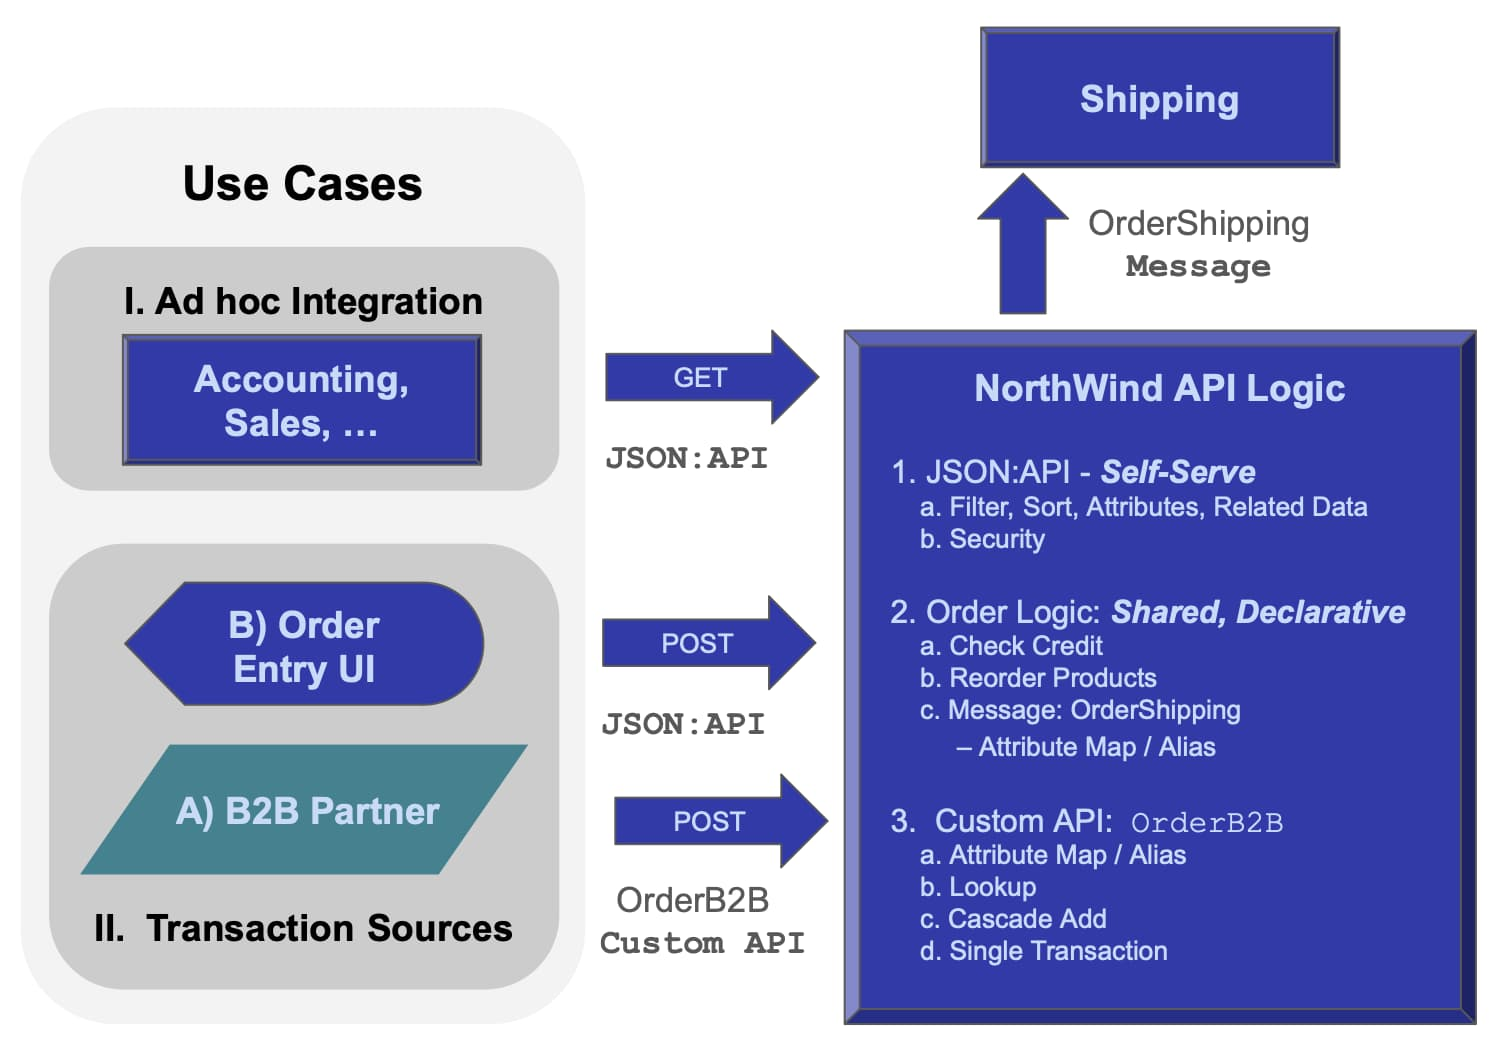
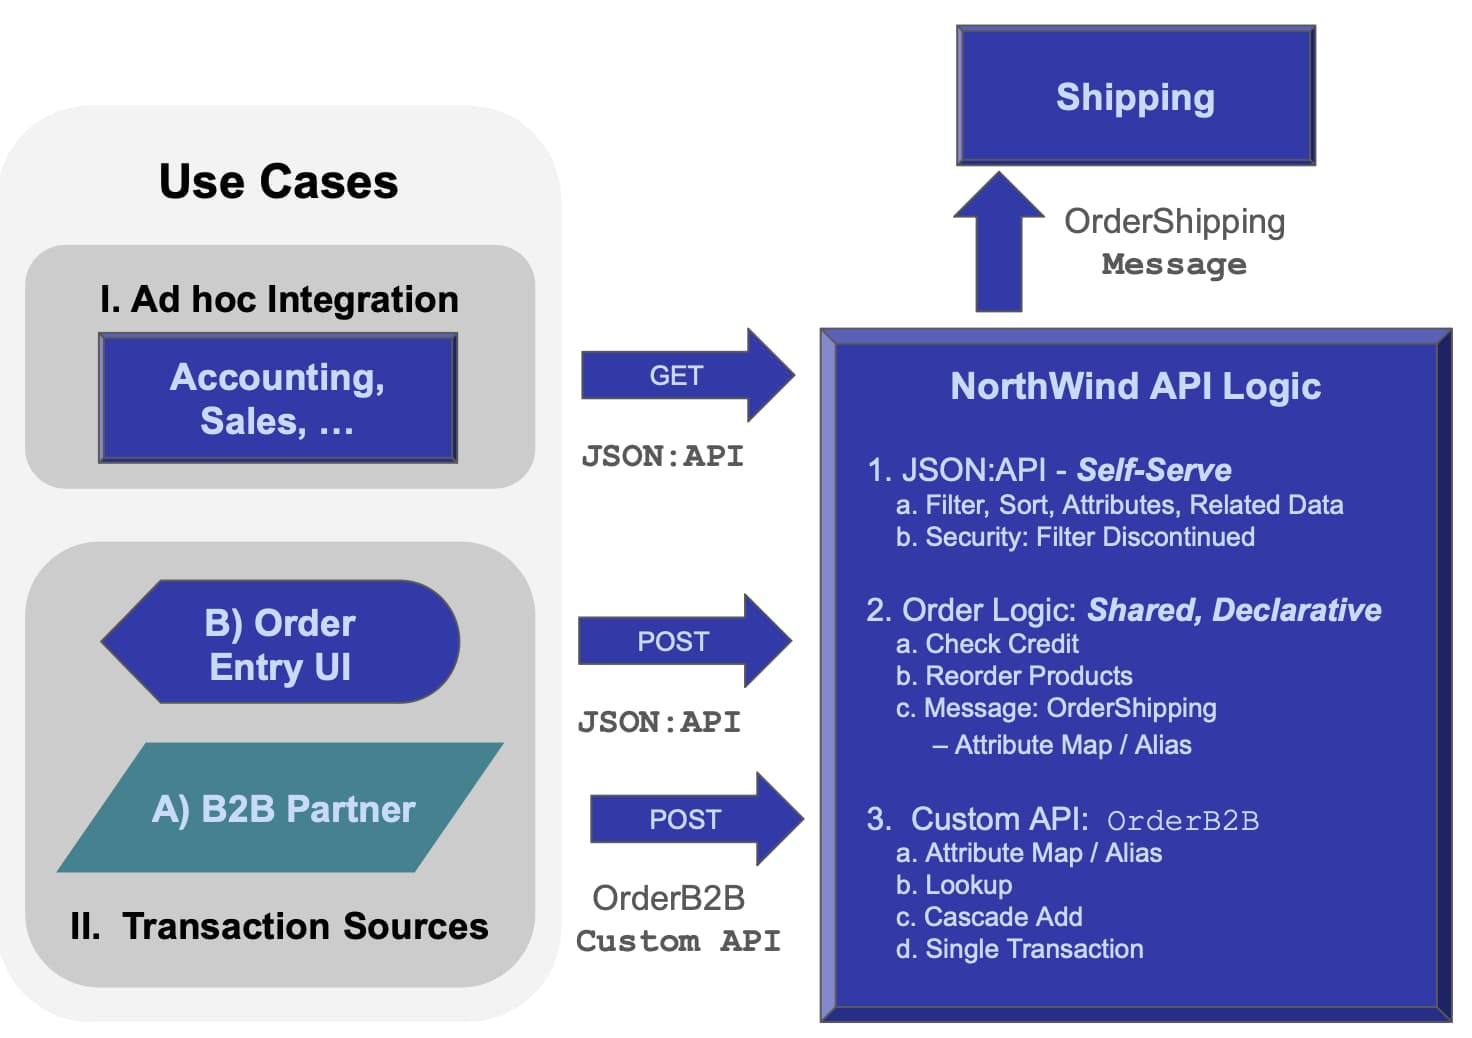
wip

diff --git a/docs/Sample-Integration.md b/docs/Sample-Integration.md
@@ -1,6 +1,6 @@
 ---
 title: Declarative Application Integration
-notes: gold docsite, 1700 words
+notes: gold docsite, 2100 words (goal: 1500)
 version: 0.01 from docsite
 ---
 
@@ -27,6 +27,7 @@ The **Northwind API Logic Server** provides APIs *and logic* for both transactio
 
     1. Ad hoc Integration Requests
     2. UI developers to build the Order Entry UI
+    3. Security (e.g, only managers see discontinued products)
 
 2. **Order Logic:** shared over both transaction sources, this logic
 
@@ -67,7 +68,7 @@ Unlike Custom APIs which require server development, **Self-Serve APIs can be us
 
 &nbsp;
 
-### UI App Dev on self-serve APIs
+### UI Dev on self-serve APIs
 
 UI apps depend, of course, on APIs.  While these can be custom, the sheer number of such requests places a burden on the server team.  As for ad hoc integrations, a better approach is self-serve APIs.
 
@@ -107,9 +108,9 @@ Note the integration to Shipping is via message, not APIs.  While both APIs and 
 
 &nbsp;
 
-## 1. Automation: Instant Project
+## 1. Create: Instant Project
 
-This project was created with a command like:
+Project creation is automated with a command like:
 
 ```bash
 $ ApiLogicServer create --project_name= db_url=nw-
@@ -119,7 +120,16 @@ $ ApiLogicServer create --project_name= db_url=nw-
 
 This creates a project by reading your schema.  The database is Northwind (Customer, Orders, Items and Product), as shown in the Appendix.  
 
-You can open with VSCode, and run it as follows:
+You can then open the project in your IDE, and run it.
+
+
+<details markdown>
+
+<summary> Show me how </summary>
+
+&nbsp;
+
+To run the ApiLogicProject app:
 
 1. **Create Virtual Environment:** as shown in the Appendix.
 
@@ -127,22 +137,30 @@ You can open with VSCode, and run it as follows:
 
 3. **Start the Admin App:** either use the links provided in the IDE console, or click [http://localhost:5656/](http://localhost:5656/).  The screen shown below should appear in your Browser.
 
-The sections below explore the system that has been created (which would be similar for your own database).
+</details>
+
+The sections below explore the system that has been created.
 <br><br>
 
 !!! pied-piper ":bulb: Automation: Instant API, Admin App (enable UI dev, agile collaboration)"
 
-    ### a. Self-Serve API, Swagger
+    ### Self-Serve API
 
-    The system creates an API with end points for each table, with filtering, sorting, pagination, optimistic locking and related data access -- **[self-serve](https://apilogicserver.github.io/Docs/API-Self-Serve/), ready for ad hoc integration custom app dev.**
+    The system creates an API with end points for each table, with filtering, sorting, pagination, optimistic locking and related data access.
+    
+    The API is [**self-serve**](https://apilogicserver.github.io/Docs/API-Self-Serve/), consumers can select their own attributes and related data, wihout requiring custom API development.
 
     <img src="https://github.com/ApiLogicServer/Docs/blob/main/docs/images/integration/api-swagger.jpeg?raw=true">
 
-    ### b. Admin App
+    ### Ad hoc Integration
 
-    It also creates an Admin App: multi-page, multi-table -- ready for **[business user agile collaboration](https://apilogicserver.github.io/Docs/Tech-AI/),** and back office data maintenance.  This complements custom UIs created with the API.
+    Our self-serve API meets our needs for Ad Hoc Integration, and Custom UI Dev.
 
-    You can click Customer 2, and see their Orders, and Items.
+    ### Admin App
+
+    The `create` command also creates an Admin App: multi-page, multi-table -- ready for **[business user agile collaboration](https://apilogicserver.github.io/Docs/Tech-AI/),** and back office data maintenance.  This complements custom UIs created with the API.
+
+    You can click Customer 2, and see their Orders, and Items.  FIXME
 
     <img src="https://github.com/ApiLogicServer/Docs/blob/main/docs/images/integration/admin-app-initial.jpeg?raw=true">
 
@@ -150,7 +168,13 @@ The sections below explore the system that has been created (which would be simi
 
 ## 2. Customize in your IDE
 
-While API/UI automation is a great start, we now require Custom APIs, Logic and Security.  Here's how.
+While API/UI automation is a great start, we now require Custom APIs, Logic and Security.  You normally apply such customizations using your IDE, leveraging code completion, etc.  To accelerate this sample, you can apply the customizations with `ApiLogicServer add-cust`.   We'll review the customizations below.
+
+<details markdown>
+
+<summary> Show me how -- apply customizations </summary>
+
+&nbsp;
 
 The following `apply_customizations` process simulates:
 
@@ -172,9 +196,13 @@ To apply customizations, in a terminal window for your project:
 ```bash
 ApiLogicServer add-cust
 ```
+
+</details>
+
+
 &nbsp;
 
-### Declare Security
+### Declare Row-Level Security
 
 The `apply_customizations` process above has simulated the `ApiLogicServer add-auth` command, and using your IDE to declare security in `logic/declare_security.sh`.
 
@@ -186,31 +214,22 @@ To see security in action:
 
 **3. Login** as `s1`, password `p`
 
-**4. Click Customers**
+**4. Click Products**
 
 &nbsp;
 
-!!! pied-piper ":bulb: Security: Authentication, Role-based Filtering, Logging"
+!!! pied-piper ":bulb: Security: Discontinued Products Filtered"
 
-    #### 1. Login now required
+    #### Login, Row Filtering
 
-    #### 2. Role-Based Filtering
-
-    Observe you now see fewer customers, since user `s1` has role `sales`.  This role has a declared filter, as shown in the screenshot below.
-
-    #### 3. Transparent Logging
-
-    The screenhot below illustrates security declaration and operation:
-
-    * The declarative Grants in the upper code panel, and
-
-    *  The logging in the lower panel, to assist in debugging by showing which Grants (`+ Grant:`) are applied:
+    Observe you now see fewer Products, per the `GlobalFilter` declared below.
 
     <img src="https://github.com/ApiLogicServer/Docs/blob/main/docs/images/integration/security-filters.jpeg?raw=true">
 
+
 &nbsp;
 
-### Declare Logic
+### Declare Check Credit Logic
 
 Such logic (multi-table derivations and constraints) is a significant portion of a system, typically nearly half.  API Logic server provides **spreadsheet-like rules** that dramatically simplify and accelerate logic development.
 
@@ -224,87 +243,30 @@ To see logic in action:
 
 **2. Use the Admin App to add an Order and Item for `Customer 1`** (see Appendix), where the rollup of Item Amount to the Order exceed the credit limit.
 
-Observe the rules firing in the console log, as shown in the next screenshot.
-
-Logic provides significant improvements over procedural logic, as described below.
+Observe the rules firing in the console log, as shown in the next screenshot.  FIX ME
 
 &nbsp;
 
 !!! pied-piper ":bulb: Logic: Multi-table Derivation and Constraint Rules, 40X More Concise"
 
-    #### a. Complexity Scaling
+    #### 40X More Concise
 
-    The screenshot below shows our logic declarations, and the logging for inserting an `Item`.  Each line represents a rule firing, and shows the complete state of the row.
+    Logic provides significant improvements over procedural logic, as described below.
 
-    Note that it's a `Multi-Table Transaction`, as indicated by the indentation.  This is because - like a spreadsheet - **rules automatically chain, *including across tables.***
+
+    | CHARACTERISTIC | PROCEDURAL | DECLARATIVE | WHY IT MATTERS |
+    | :--- |:---|:---|:---|
+    | **Reuse** | Not Automatic | Automatic - all Use Cases | **40X Code Reduction** |
+    | **Invocation** | Passive - only if called  | Active - call not required | Quality |
+    | **Ordering** | Manual | Automatic | Agile Maintenance |
+    | **Optimizations** |Manual | Automatic | Agile Design |
 
     <img src="https://github.com/ApiLogicServer/Docs/blob/main/docs/images/integration/logic-chaining.jpeg?raw=true">
-
-    #### b. 40X More Concise
-
-    The 5 spreadsheet-like rules represent the same logic as 200 lines of code, [shown here](https://github.com/valhuber/LogicBank/wiki/by-code).  That's a remarkable 40X decrease in the backend half of the system.
-    <br><br>
-
-    #### c. Automatic Re-use
-
-    The logic above, perhaps conceived for Place order, applies automatically to all transactions: deleting an order, changing items, moving an order to a new customer, etc.  This reduces code, and promotes quality (no missed corner cases).
-    <br><br>
-
-    #### d. Automatic Optimizations
-
-    SQL overhead is minimized by pruning, and by elimination of expensive aggregate queries.  These can result in orders of magnitude impact.
-    <br><br>
-
-    #### e. Transparent
-
-    Rules are an executable design.  Note they map exactly to our natural language design (shown in comments) - readable by business users.  
-
-    Optionally, you can use the Behave TDD approach to define tests, and the Rules Report will show the rules that execute for each test.  For more information, [click here](https://apilogicserver.github.io/Docs/Behave-Logic-Report/).
+    
 
 &nbsp;
 
-## 4. Iterate
-
-**1. Set the breakpoint as shown in the screenshot below**
-
-**2. Test: Start the Server, login as Admin**
-
-At the breakpoint, observe you can use standard debugger services to debug your logic (examine `Item` attributes, step, etc).
-
-<img src="https://github.com/ApiLogicServer/Docs/blob/main/docs/images/integration/logic-debugging.jpeg?raw=true">
-
-&nbsp;
-
-This simple example illustrates some significant aspects of iteration, described in the sub-sections below.
-
-!!! pied-piper ":bulb: Iteration: Automatic Invocation/Ordering, Extensible, Rebuild Preserves Customizations"
-
-    ### a. Dependency Automation
-
-    Along with perhaps documentation, one of the tasks programmers most loathe is maintenance.  That's because it's not about writing code, but it's mainly archaeology - deciphering code someone else wrote, just so you can add 4 or 5 lines that will hopefully be called and function correctly.
-
-    Rules change that, since they **self-order their execution** (and pruning) based on system-discovered dependencies.  So, to alter logic, you just "drop a new rule in the bucket", and the system will ensure it's called in the proper order, and re-used over all the Use Cases to which it applies.  Maintenance is **faster, and higher quality.**
-    <br><br>
-
-    ### b. Extensibile with Python
-
-    In this case, we needed to do some if/else testing, and it was convenient to add a pinch of Python. Using "Python as a 4GL" is remarkably simple, even if you are new to Python.
-
-    Of course, you have the full object-oriented power of Python and its many libraries, so there are *no automation penalty* restrictions.  
-    <br>
-
-    ### c. Debugging: IDE, Logging
-
-    The screenshot above illustrates that debugging logic is what you'd expect: use your IDE's debugger.  This "standard-based" approach applies to other development activities, such as source code management, and container-based deployment.
-    <br><br>
-
-    ### d. Customizations Retained
-
-    Note we rebuilt the project from our altered database, illustrating we can **iterate, while *preserving customizations.***
-
-&nbsp;
-
-## 4. Integration
+## 3. Integrate B2B and Shipping
 
 TODO: pre-supplied integration services
 
@@ -321,7 +283,7 @@ ApiLogicServer curl "'POST' 'http://localhost:5656/api/ServicesEndPoint/OrderB2B
     "Items": [
         {
         "ProductName": "Chai",
-        "QuantityOrdered": 1
+        "QuantityOrdered": 1000
         },
         {
         "ProductName": "Chang",
@@ -335,13 +297,9 @@ ApiLogicServer curl "'POST' 'http://localhost:5656/api/ServicesEndPoint/OrderB2B
 
 &nbsp;
 
-## 5. Deploy Containers: Collaborate
+# Summary
 
-API Logic Server also creates scripts for deployment.  While these are ***not required at this demo,*** this means you can enable collaboration with Business Users:
-
-1. Create a container from your project -- see `devops/docker-image/build_image.sh`
-2. Upload to Docker Hub, and
-3. Deploy for agile collaboration.
+Note: rebuild, deployment
 
 &nbsp;
 
